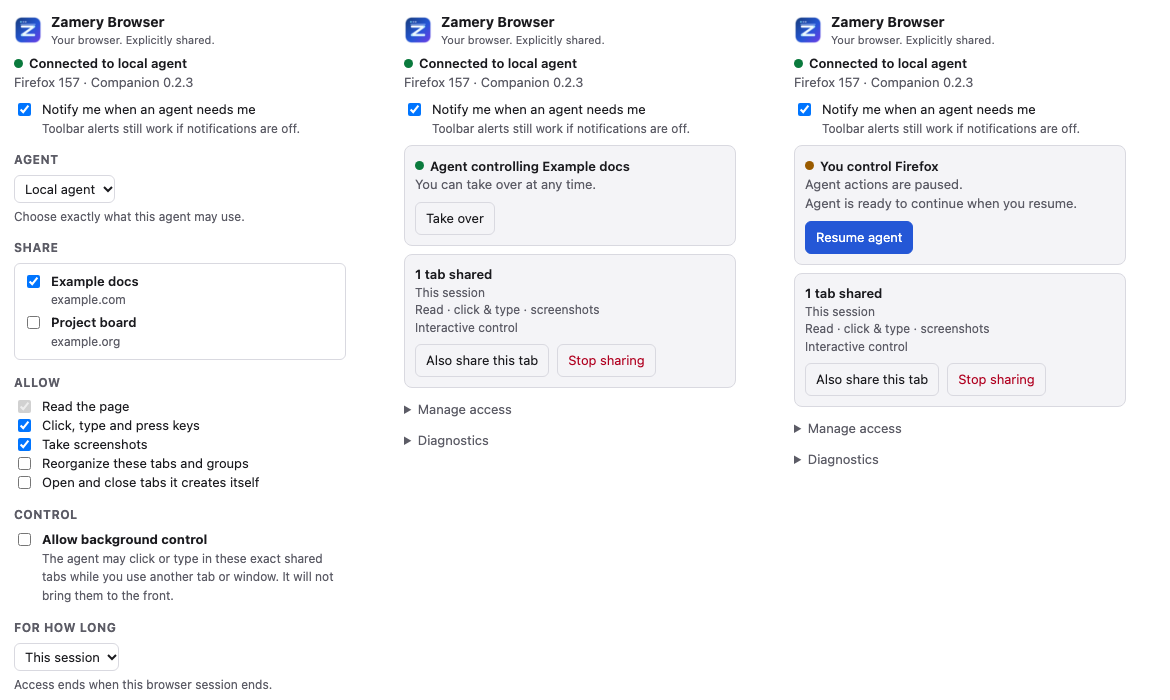
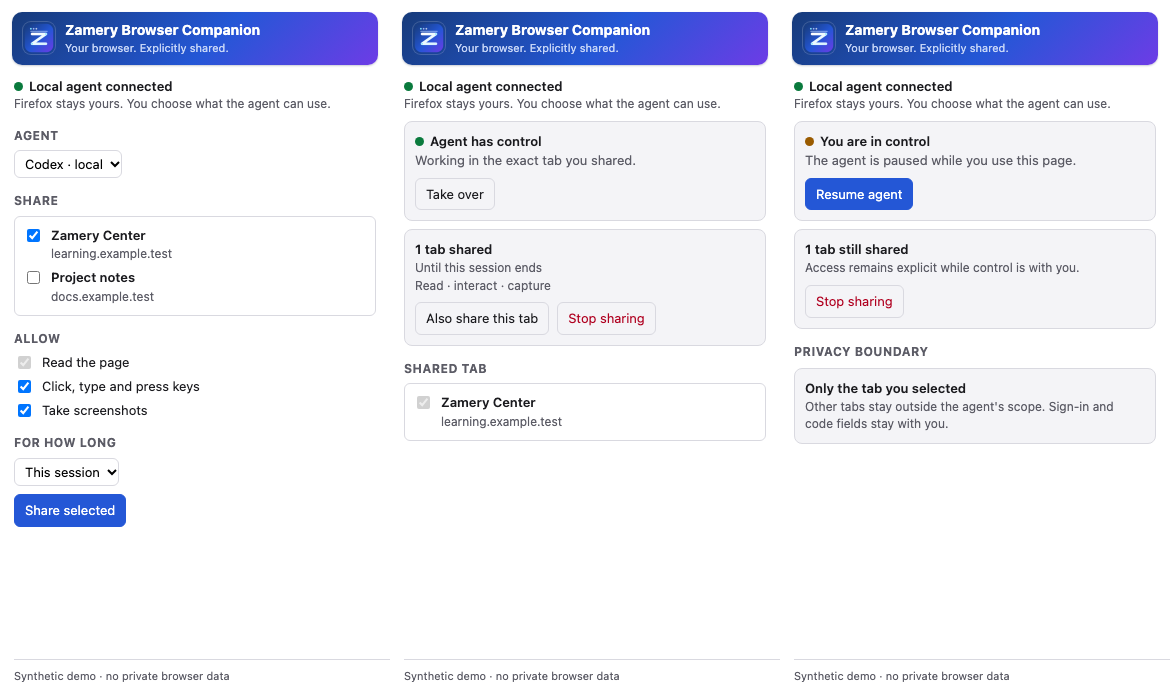
feat: complete Companion branding (#31)

diff --git a/packages/browser-firefox/runtime/companion/popup.html b/packages/browser-firefox/runtime/companion/popup.html
@@ -2,18 +2,18 @@
 <html lang="en">
 <head>
 <meta charset="utf-8">
-<title>Zamery Browser</title>
+<title>Zamery Browser Companion</title>
 <style>
-:root { color-scheme: light dark; --fg:#1b1b1f; --muted:#5c5c66; --bg:#fff; --card:#f4f4f7; --line:#d9d9e0; --ok:#0a7a3d; --warn:#9a5b00; --bad:#b00020; --accent:#2457d6; }
+:root { color-scheme: light dark; --fg:#1b1b1f; --muted:#5c5c66; --bg:#fff; --card:#f4f4f7; --line:#d9d9e0; --ok:#0a7a3d; --warn:#9a5b00; --bad:#b00020; --accent:#2457d6; --brand-violet:#6d3ce6; --brand-soft:#c7d6f7; }
 @media (prefers-color-scheme: dark) { :root { --fg:#f1f1f4; --muted:#a8a8b3; --bg:#1f1f24; --card:#2a2a31; --line:#40404a; --ok:#58d68d; --warn:#f0b35a; --bad:#ff7a8a; --accent:#7aa2ff; } }
 * { box-sizing: border-box; }
 body { font: 13px/1.45 system-ui, sans-serif; color: var(--fg); background: var(--bg); width: 360px; margin: 0; padding: 14px; }
 h1 { font-size: 14px; margin: 0 0 2px; }
-.brand { display:flex; align-items:center; gap:9px; margin-bottom:8px; }
-.brand img { width:28px; height:28px; border-radius:7px; }
+.brand { display:flex; align-items:center; gap:10px; margin:-2px -2px 12px; padding:10px 11px; border-radius:10px; color:#fff; background:linear-gradient(135deg,#173b7a 0%,#2457d6 55%,var(--brand-violet) 100%); box-shadow:0 1px 2px rgba(14,29,58,.22); }
+.brand img { width:32px; height:32px; border-radius:8px; box-shadow:0 0 0 1px rgba(255,255,255,.18); }
 .brand-copy { min-width:0; }
-.brand-copy h1 { font-size:14px; line-height:1.2; }
-.brand-copy .tagline { color:var(--muted); font-size:11px; line-height:1.2; }
+.brand-copy h1 { font-size:14px; line-height:1.2; color:#fff; }
+.brand-copy .tagline { color:var(--brand-soft); font-size:11px; line-height:1.25; margin-top:2px; }
 h2 { font-size: 12px; text-transform: uppercase; letter-spacing: .04em; color: var(--muted); margin: 14px 0 6px; }
 .muted { color: var(--muted); }
 .row { display: flex; align-items: center; gap: 8px; margin: 5px 0; }
@@ -40,8 +40,8 @@ code { font-size: 11px; overflow-wrap: anywhere; }
 </head>
 <body>
 <div class="brand">
-  <img src="icons/zamery-32.png" alt="" width="28" height="28">
-  <div class="brand-copy"><h1>Zamery Browser</h1><div class="tagline">Your browser. Explicitly shared.</div></div>
+  <img src="icons/zamery-32.png" alt="" width="32" height="32">
+  <div class="brand-copy"><h1>Zamery Browser Companion</h1><div class="tagline">Your browser. Explicitly shared.</div></div>
 </div>
 <div class="pill" id="connection"><span class="dot" id="connection-dot"></span><span id="connection-text">Checking…</span></div>
 <div class="muted" id="connection-detail"></div>

diff --git a/packages/browser-firefox/amo/README.md b/packages/browser-firefox/amo/README.md
@@ -2,11 +2,11 @@
 
 This directory contains the metadata and release checklist for the first public addons.mozilla.org listing of **Zamery Browser Companion**.
 
-Current public AMO version: `0.2.3` (companion protocol 2) with stable Gecko ID `zamery-browser-firefox@zamery.local`. It adds the public Zamery Browser icon/toolbar branding on top of the accepted `0.2.2` runtime. Mozilla automated screening approved `0.2.3` for the public listing on 2026-10-06 (AMO version `6546568`). The signed `0.2.2` XPI remains the recorded stable release artifact until the exact `0.2.3` signed-XPI digest/source tuple is captured in release evidence.
+Current public AMO version: `0.2.3` (companion protocol 2) with stable Gecko ID `zamery-browser-firefox@zamery.local`. Mozilla automated screening approved it for the public listing on 2026-10-06 (AMO version `6546568`). Current source candidate `0.2.4` completes the Companion branding with the public product name, brand header, user-facing extension description, and AMO listing copy. The signed `0.2.2` XPI remains the recorded stable release artifact until a newer exact signed-XPI digest/source tuple is captured in release evidence.
 
-## Why 0.2.3
+## Why 0.2.4
 
-`0.2.2` is already Mozilla-signed and distributed. Adding extension icons changes the signed source bytes, so the branded source uses `0.2.3` even though browser-control semantics and native wire protocol remain unchanged. A listed/signed build always uses a version higher than an already-distributed build so existing installations can move forward rather than attempting to reuse a signed artifact built from different source.
+`0.2.3` is already public on AMO. Updating the popup and manifest changes signed source bytes, so the completed Companion branding uses `0.2.4` even though browser-control semantics and native wire protocol remain unchanged. A listed/signed build always uses a version higher than an already-distributed build so existing installations can move forward rather than attempting to reuse a signed artifact built from different source.
 
 ## Production source boundary
 
@@ -66,4 +66,4 @@ The AMO listing must also identify that the add-on has a privacy policy and use 
 
 ## Release gate
 
-Companion `0.2.3` is approved and public on AMO. Before promoting it as the repository's recorded stable release artifact, capture the exact signed XPI SHA-256 and source tuple with `pnpm release:tuple --xpi <signed-0.2.3.xpi>` and update the durable release evidence. Until then, the signed `0.2.2` XPI remains the recorded stable artifact.
+Companion `0.2.3` is approved and public on AMO; `0.2.4` is the current branding source candidate. Before promoting `0.2.4` as the repository's recorded stable release artifact, capture the exact signed XPI SHA-256 and source tuple with `pnpm release:tuple --xpi <signed-0.2.4.xpi>` and update the durable release evidence. Until then, the signed `0.2.2` XPI remains the recorded stable artifact.

diff --git a/docs/technical-preview.md b/docs/technical-preview.md
@@ -6,7 +6,7 @@ Date: 2026-10-06. Scope: macOS, local stdio MCP (Codex and other local MCP hosts
 
 **Stable `v0.2.2` accepted.** Stable npm artifacts are `@zamery/browser-provider@0.2.2`, `@zamery/browser-firefox@0.2.1`, `@zamery/browser-mcp@0.1.0`, and `@zamery/pi-browser@0.2.1`; companion `0.2.2` is Mozilla-signed and source-compatible with the accepted tree. Published-artifact installation passed on a clean GitHub-hosted macOS 26.6.2 arm64 runner (run `37417918059`) without a repository checkout. Signed real-profile attention/auth UX acceptance separately passed on Firefox 157. npm `latest` resolves to the stable tuple. Durable stable evidence: `docs/evidence/stable-release-2026-10-06.json`.
 
-`main` contains post-`v0.2.2` branding work. Companion `0.2.3` adds the public icon/toolbar branding and was approved for the public AMO listing on 2026-10-06 (AMO version `6546568`). Its exact signed-XPI digest/source tuple has not yet been recorded in this repository's durable release evidence, so the stable claims in this document continue to refer to the exact `v0.2.2` tuple above.
+`main` contains post-`v0.2.2` branding work. Companion `0.2.3` added the public icon/toolbar branding and was approved for the public AMO listing on 2026-10-06 (AMO version `6546568`). Companion source `0.2.4` completes the visible Companion branding and AMO listing copy. Its exact signed-XPI digest/source tuple has not yet been recorded in this repository's durable release evidence, so the stable claims in this document continue to refer to the exact `v0.2.2` tuple above.
 
 ## What exists (by layer)
 

diff --git a/docs/brand.md b/docs/brand.md
@@ -2,6 +2,14 @@
 
 The visual identity is deliberately small and functional: a browser-shaped tile, a connected `Z` path, and a blue-to-violet field with a cyan signal accent. It is designed to stay legible at Firefox toolbar size and still feel identifiable on GitHub and release surfaces.
 
+## Product naming
+
+- **Zamery Browser** is the product and repository name.
+- **Zamery Browser Companion** is the Firefox add-on name and should be used in Firefox, AMO, and add-on-specific UI.
+- **Your browser. Explicitly shared.** is the Companion tagline.
+
+Do not shorten the add-on name to `Zamery Browser` on surfaces whose primary purpose is to identify the installed Firefox extension.
+
 ## Canonical assets
 
 - `docs/assets/brand/zamery-browser-mark.svg` — canonical vector mark.
